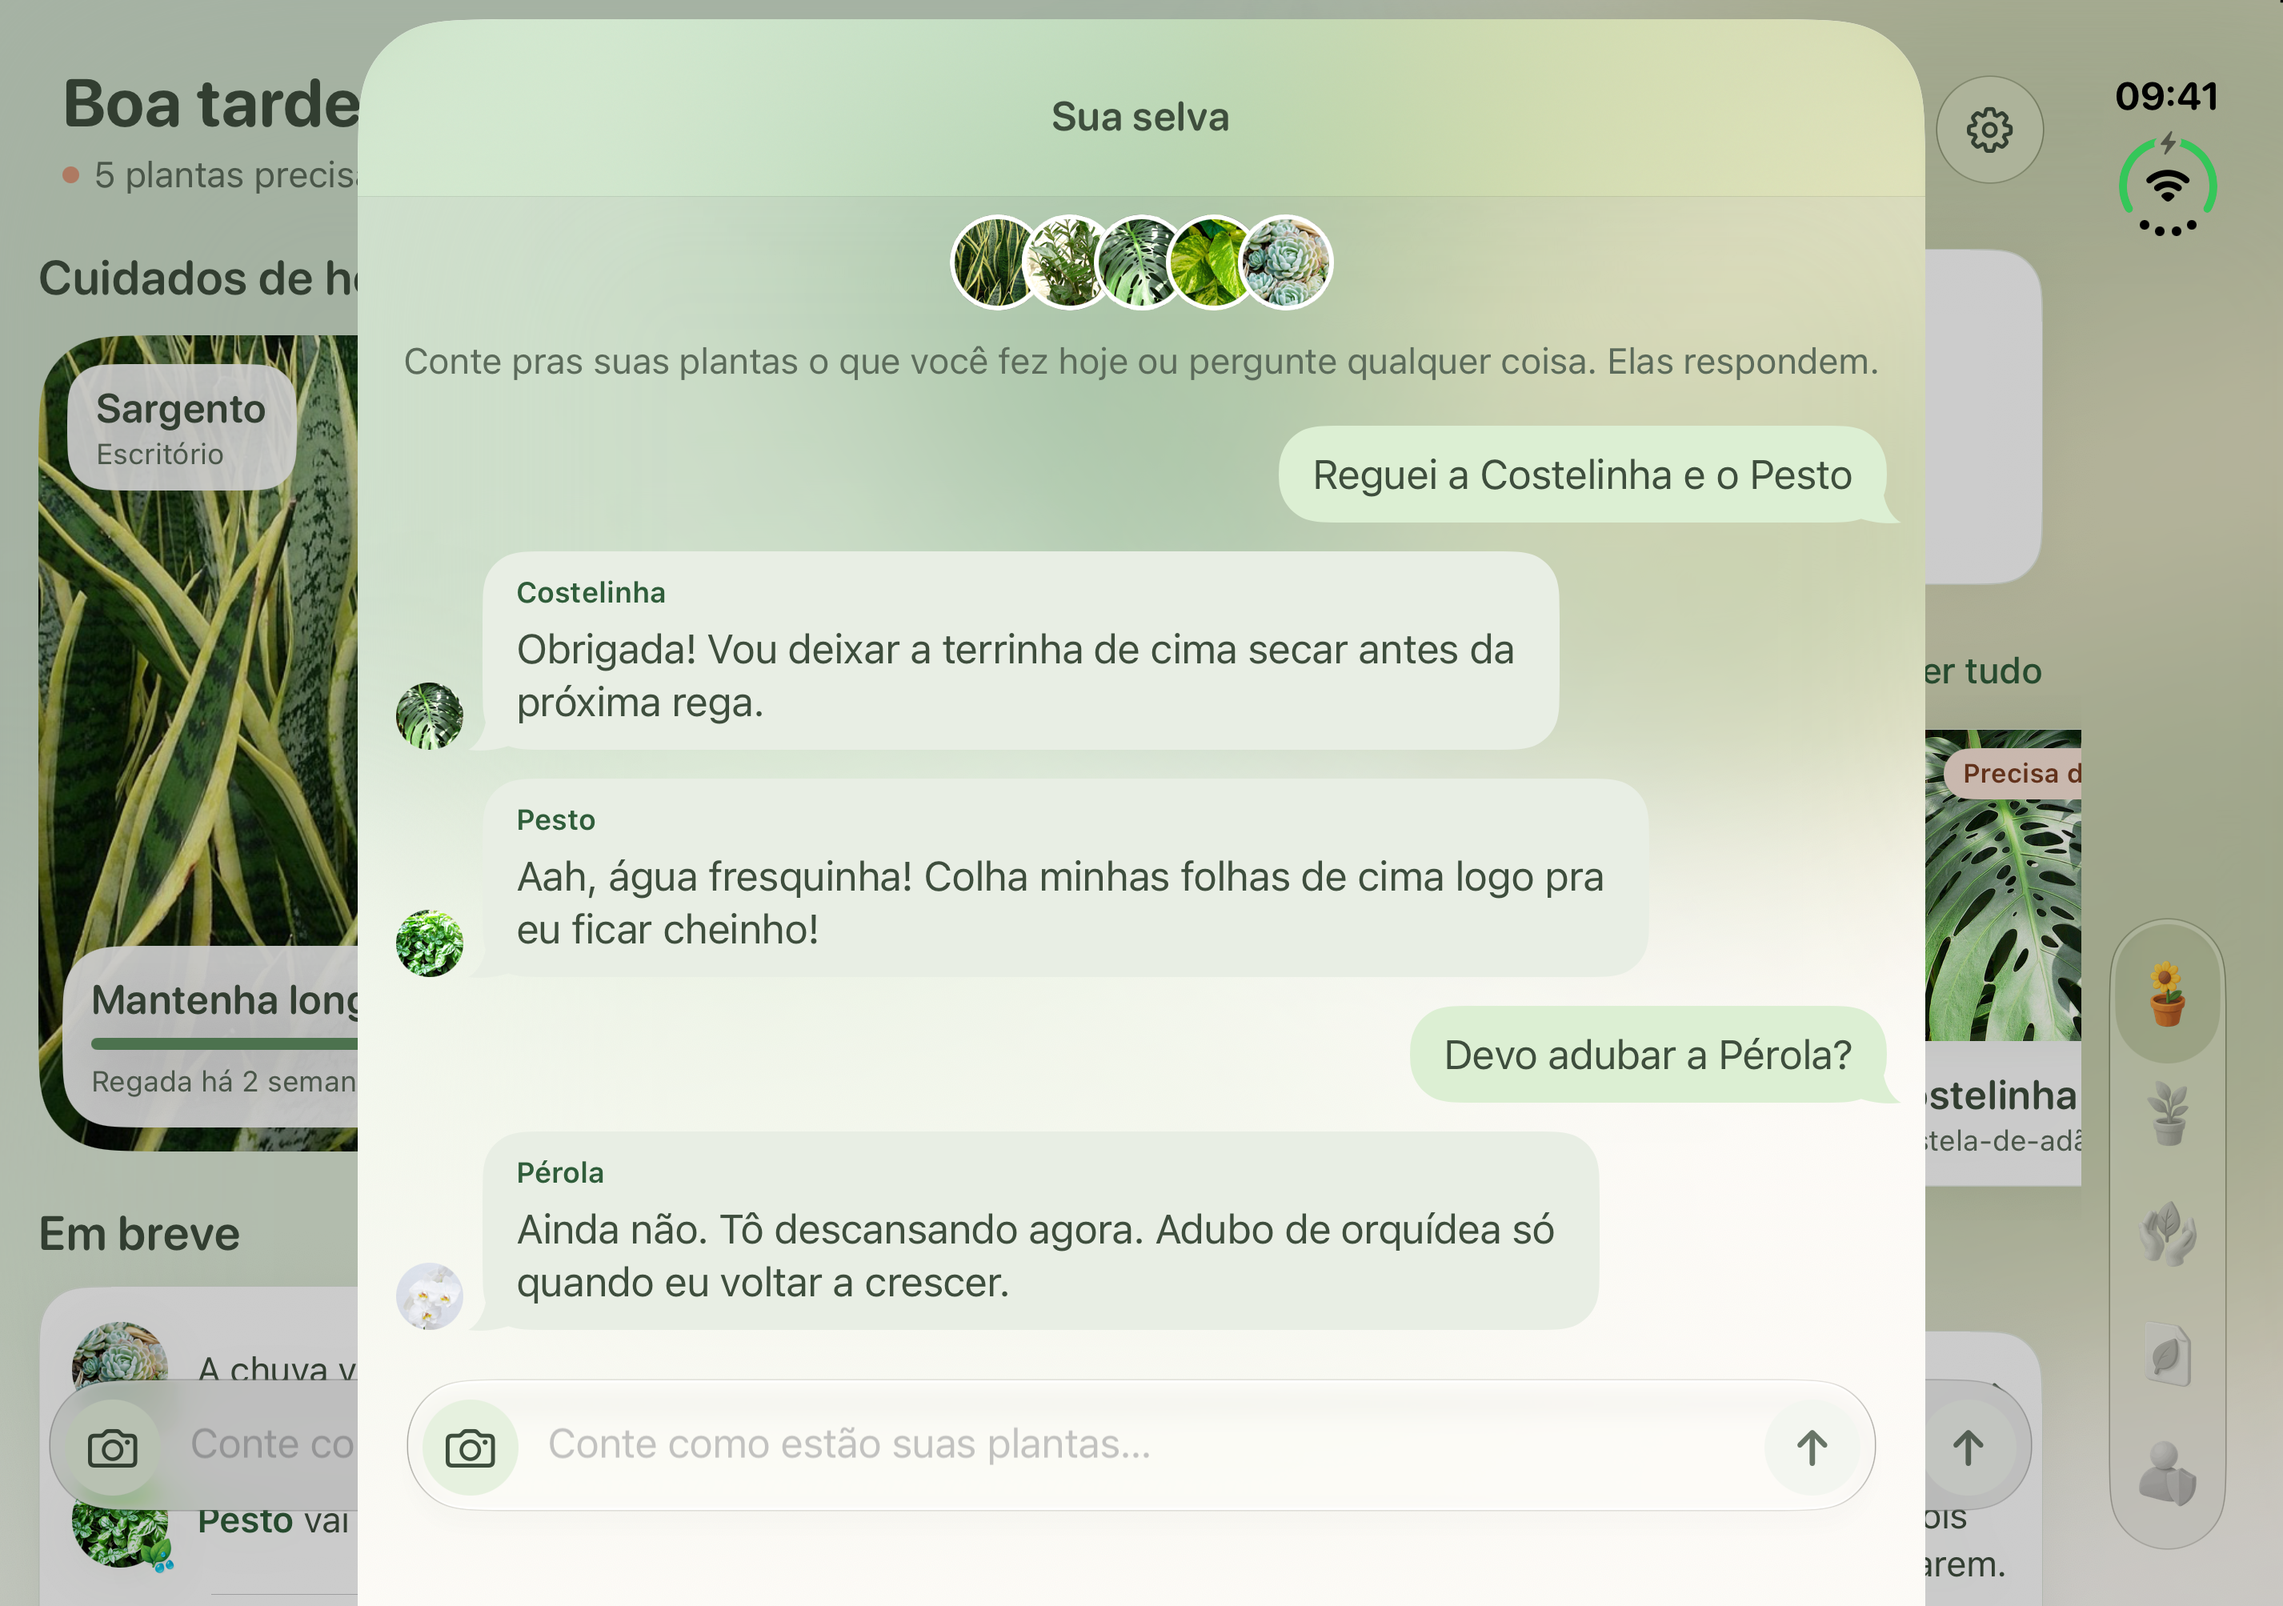
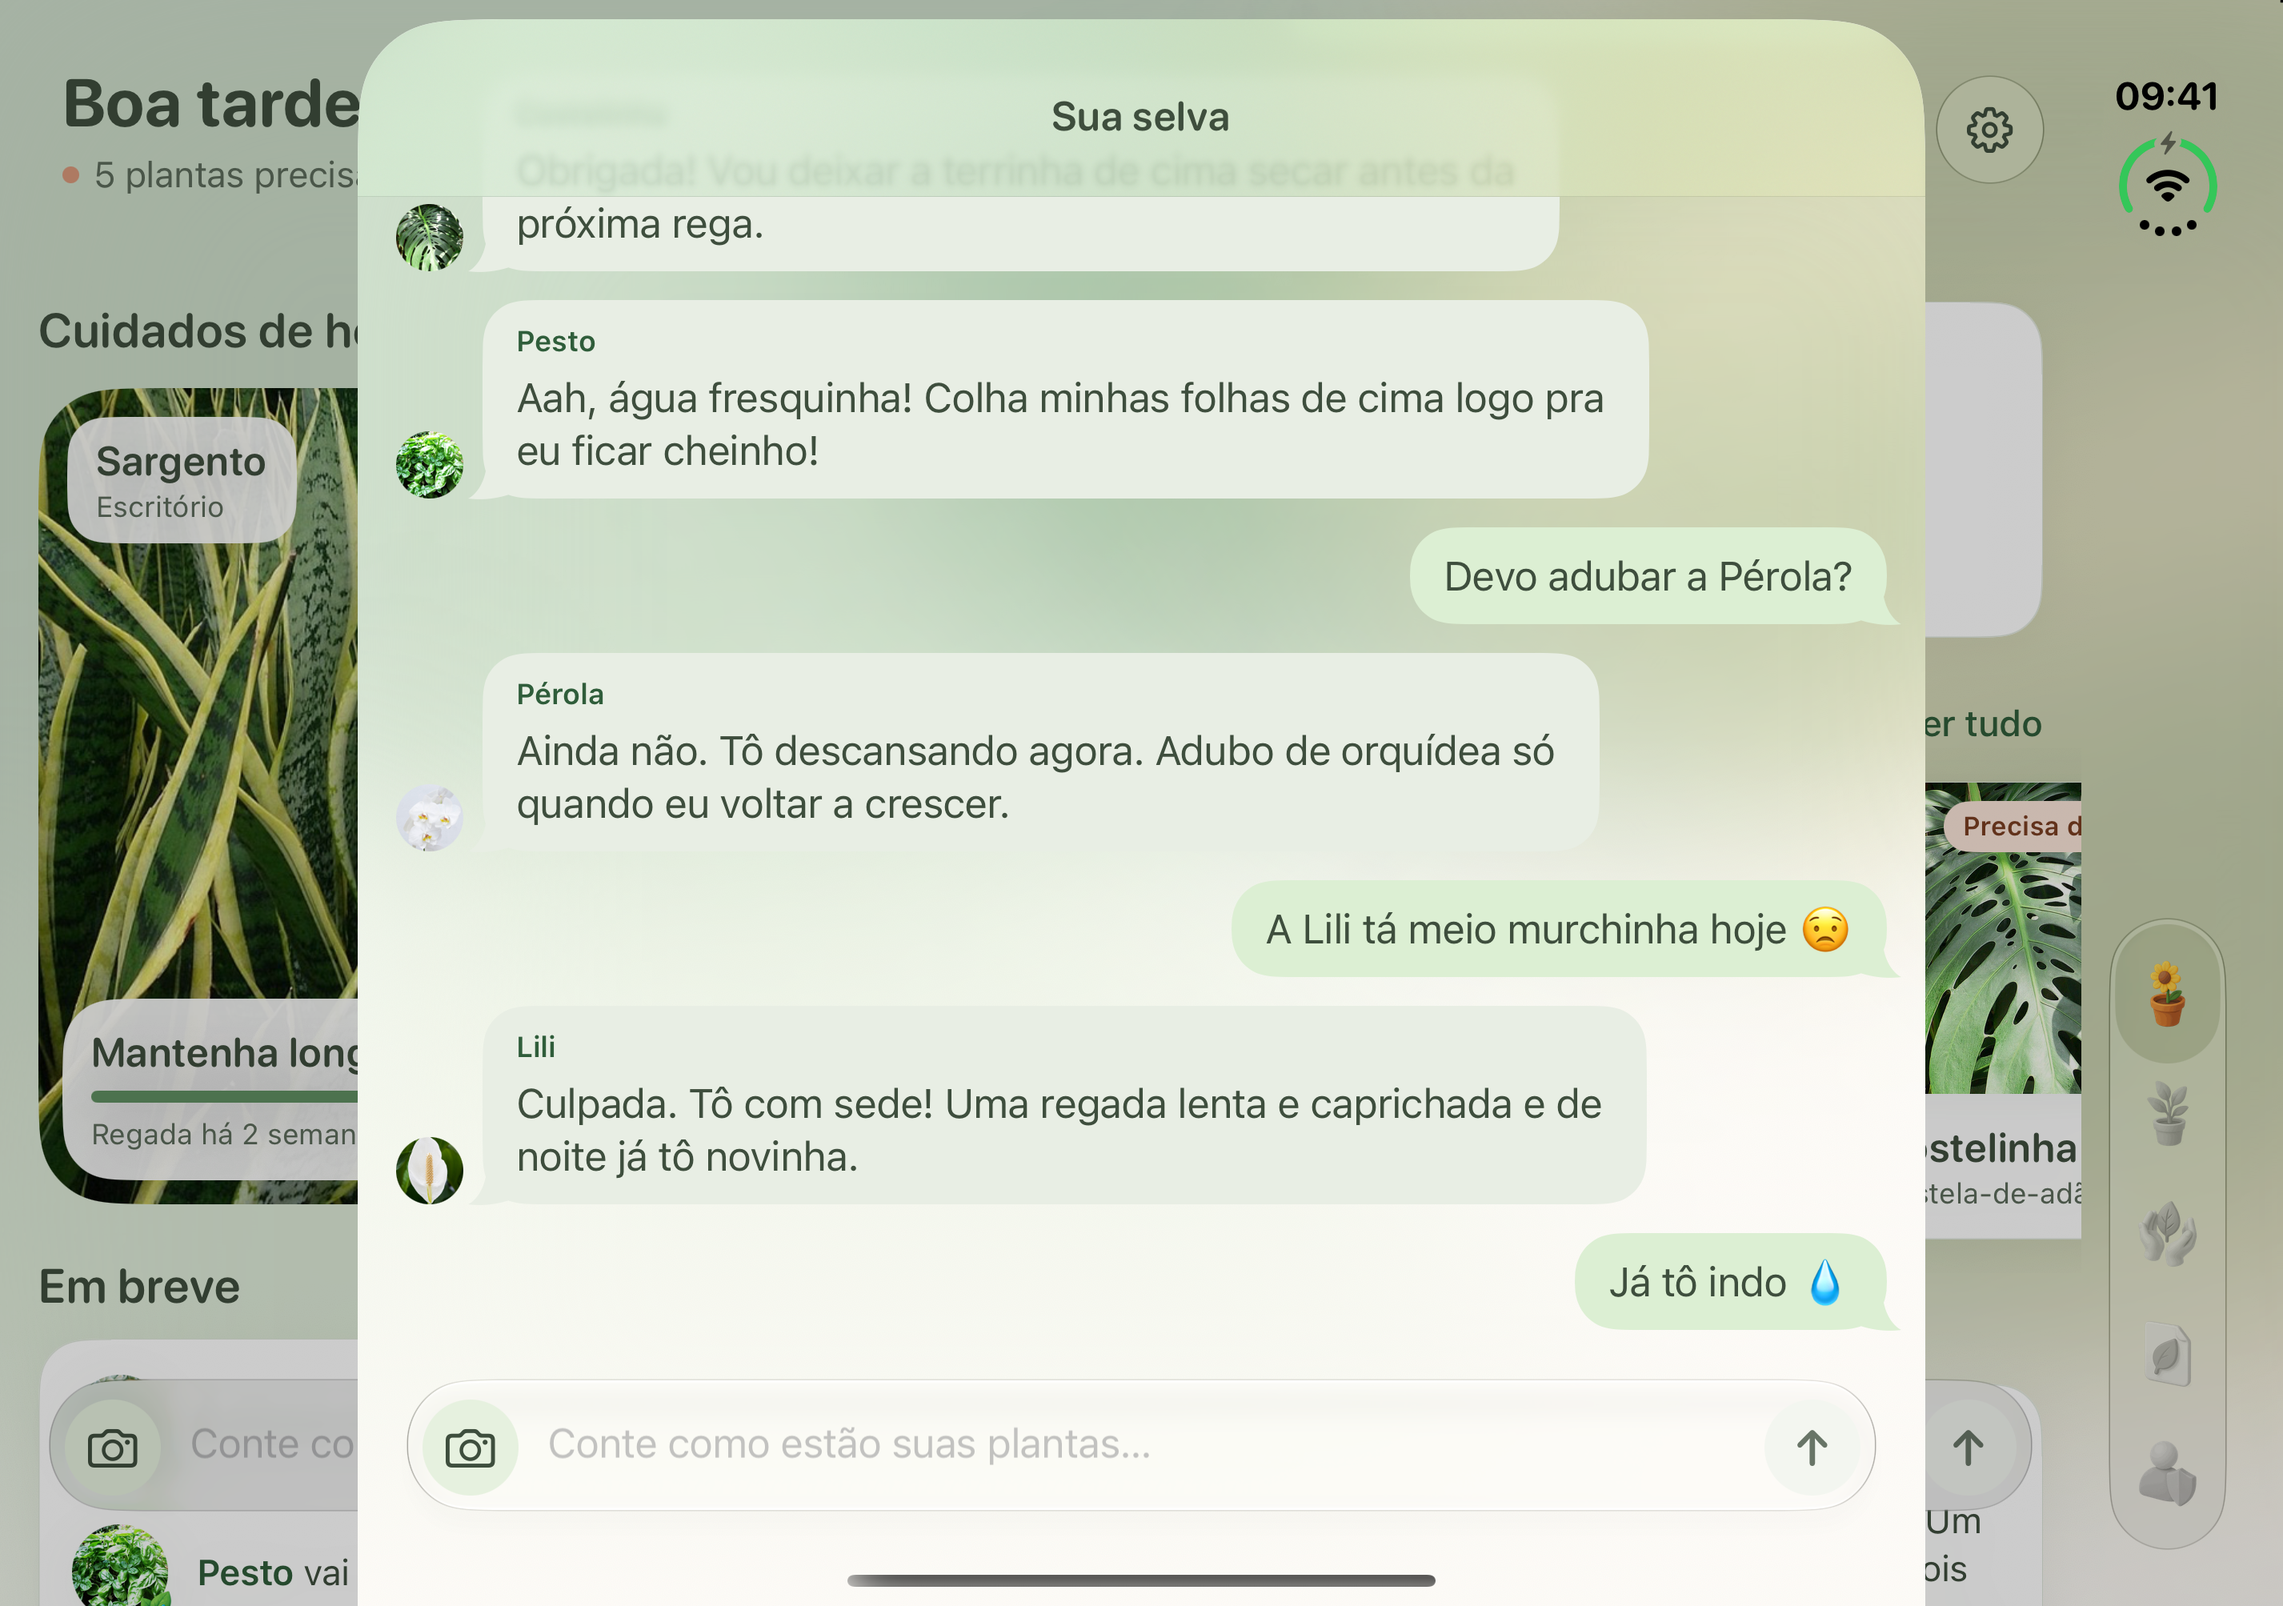
App Store: jungle chat is slide 01 (livelier demo chat), notifications slide 02; header and search art fit the App Store crop

diff --git a/MyTinyJungle/Demo/DemoSeeder.swift b/MyTinyJungle/Demo/DemoSeeder.swift
@@ -62,13 +62,16 @@ enum DemoSeeder {
             if s.days > 200 { ev(.repot, s.days - 60, Grammar.pt(String(localized: "Moved to a 2 cm bigger pot", comment: "Demo care log note"))) }
             ev(.rotate, 11)
         }
-        let monty = Grammar.pt(String(localized: "Monty", comment: "Demo plant nickname; pt-BR: a cute Brazilian nickname")), pesto = Grammar.pt(String(localized: "Pesto", comment: "Demo plant nickname; pt-BR: a cute Brazilian nickname")), pearl = Grammar.pt(String(localized: "Pearl", comment: "Demo plant nickname; pt-BR: a cute Brazilian nickname"))
+        let monty = Grammar.pt(String(localized: "Monty", comment: "Demo plant nickname; pt-BR: a cute Brazilian nickname")), pesto = Grammar.pt(String(localized: "Pesto", comment: "Demo plant nickname; pt-BR: a cute Brazilian nickname")), pearl = Grammar.pt(String(localized: "Pearl", comment: "Demo plant nickname; pt-BR: a cute Brazilian nickname")), lily = Grammar.pt(String(localized: "Lily", comment: "Demo plant nickname; pt-BR: a cute Brazilian nickname"))
         let talk: [(String, Bool, String?)] = [
             (Grammar.pt(String(localized: "Watered \(monty) and \(pesto)", comment: "Demo chat message from the user; two plant nicknames")), true, nil),
             (Grammar.pt(String(localized: "Thank you! I'll let my top soil dry before the next drink.", comment: "Demo chat reply from a chatty plant")), false, monty),
             (Grammar.pt(String(localized: "Ahh, fresh water. Pick my top leaves soon so I stay bushy!", comment: "Demo chat reply from a basil plant")), false, pesto),
             (Grammar.pt(String(localized: "Should I feed \(pearl)?", comment: "Demo chat question from the user; plant nickname")), true, nil),
             (Grammar.pt(String(localized: "Not yet. It's autumn and I'm resting. Orchid feed again in spring.", comment: "Demo chat reply from an orchid; pt-BR may avoid naming the season")), false, pearl),
+            (Grammar.pt(String(localized: "\(lily) looks a bit droopy today 😟", comment: "Demo chat message from the user; arg plant nickname")), true, nil),
+            (Grammar.pt(String(localized: "Guilty. I'm thirsty! One slow, deep drink and I'll perk up by tonight.", comment: "Demo chat reply from a dramatic peace lily")), false, lily),
+            (Grammar.pt(String(localized: "On it 💧", comment: "Demo chat message from the user; short")), true, nil),
         ]
         for (i, t) in talk.enumerated() {
             let m = ChatMessage(text: t.0, fromUser: t.1); m.date = Date().addingTimeInterval(Double(i - talk.count) * 600)

diff --git a/Marketing/appstore-assets/make.py b/Marketing/appstore-assets/make.py
@@ -14,23 +14,31 @@ HERO = Image.open(f'{R}/Assets/AppStore/retention/hero.png').convert('RGB')
 BG = HERO.getpixel((20, 20))
 HEAD = json.load(open(f'{R}/Tools/appstore/headlines.json'))
 
-# Header: hero art, scaled to 86% and lifted so the mascot sits above the bottom third.
+# Header: the App Store shows a centered band near the top (ASC preview: about x 1450-3850,
+# y 0-1630 of 5244x2950, with the status bar over the top). Erty and the two nearest pots fit
+# inside it; the outer pots and sun spill to the sides for wider screens. Hero edges feathered.
+import numpy as np
 W, H = 5244, 2950
-k = 0.86 * W / HERO.width
+k = 0.78
 art = HERO.resize((int(HERO.width * k), int(HERO.height * k)), Image.LANCZOS)
-hd = Image.new('RGB', (W, H), BG); hd.paste(art, ((W - art.width) // 2, int(H * 0.04)))
+fm = np.ones((art.height, art.width)); F = 160
+for i in range(F): t = i / F; fm[:, i] *= t; fm[:, -1 - i] *= t; fm[i, :] *= t; fm[-1 - i, :] *= t
+hd = Image.new('RGB', (W, H), BG)
+hd.paste(art, (int(2622 - 1990 * k), int(330 - 300 * k)), Image.fromarray((fm * 255).astype('uint8')))
 hd.save(f'{OUT}/header.png', optimize=True)
 
 # Search results: headline left, Erty, phone with the real Lock Screen on the right.
 erty = HERO.crop((1150, 300, 2650, 1800))
 for loc, raw in (('en-US', 'en-US'), ('pt-BR', 'pt-BR'), ('pt-PT', 'pt-BR')):
-    W2, H2 = 3840, 2160
-    c = Image.new('RGB', (W2, H2), BG)
+    # The App Store shows only a centered band of this asset in search results (measured in the
+    # ASC device preview: about x 1490-3760, y 390-1890 of 5244x2950). Everything lives in SAFE.
+    SX0, SY0, SX1, SY1 = 1660, 520, 3590, 1780
+    c = Image.new('RGB', (W, H), BG)
     d = ImageDraw.Draw(c); f = fr['font'](150)
     lines = HEAD[loc][0].split('\n')
-    while max(d.textlength(l, font=f) for l in lines) > 1820: f = fr['font'](f.size - 6)
-    y = H2 // 2 - int(f.size * 1.2)
-    for l in lines: d.text((200, y), l, font=f, fill=fr['INK']); y += int(f.size * 1.2)
+    while max(d.textlength(l, font=f) for l in lines) > 1180: f = fr['font'](f.size - 4)
+    y = SY0 + 20
+    for l in lines: d.text((SX0, y), l, font=f, fill=fr['INK']); y += int(f.size * 1.22)
     e = erty.resize((int(erty.width * 0.42), int(erty.height * 0.42)), Image.LANCZOS)
     # Clean alpha: key out the hero's cream background (no box, no halo), soften the edge.
     import numpy as np
@@ -47,12 +55,13 @@ for loc, raw in (('en-US', 'en-US'), ('pt-BR', 'pt-BR'), ('pt-PT', 'pt-BR')):
         m = Image.fromarray((np.asarray(m) * keep).astype('uint8')).filter(ImageFilter.GaussianBlur(1))
     ramp = np.clip(np.arange(m.width) / 60.0, 0, 1)[None, :] * np.clip((m.height - 1 - np.arange(m.height)) / 30.0, 0, 1)[:, None]
     m = Image.fromarray((np.asarray(m) * ramp).astype('uint8'))
-    c.paste(e, (2110, 1640 - e.height), m)
-    scr = Image.open(f'{R}/Assets/AppStore/screenshots/raw/{raw}/iphone69/01-notes.png')
-    dev = fr['device'](scr, 900)
-    top = (H2 - dev.height) // 2
-    sh = Image.new('L', c.size, 0); sh.paste(dev.split()[3].point(lambda a: 60 if a else 0), (2820, top + 40))
+    c.paste(e, (SX0 + 300, SY1 - e.height), m)
+    scr = Image.open(f'{R}/Assets/AppStore/screenshots/raw/{raw}/iphone69/02-jungle.png')
+    dev = fr['device'](scr, 640)
+    if dev.height > SY1 - SY0: dev = dev.resize((int(dev.width * (SY1 - SY0) / dev.height), SY1 - SY0), Image.LANCZOS)
+    px, top = SX1 - dev.width, SY0
+    sh = Image.new('L', c.size, 0); sh.paste(dev.split()[3].point(lambda a: 60 if a else 0), (px, top + 40))
     c.paste(Image.new('RGB', c.size, (40, 70, 45)), mask=sh.filter(ImageFilter.GaussianBlur(40)))
-    c.paste(dev, (2820, top), dev)
-    c.resize((5244, 2950), Image.LANCZOS).save(f'{OUT}/search-{loc}.png', optimize=True)
+    c.paste(dev, (px, top), dev)
+    c.save(f'{OUT}/search-{loc}.png', optimize=True)
 print('ok')
